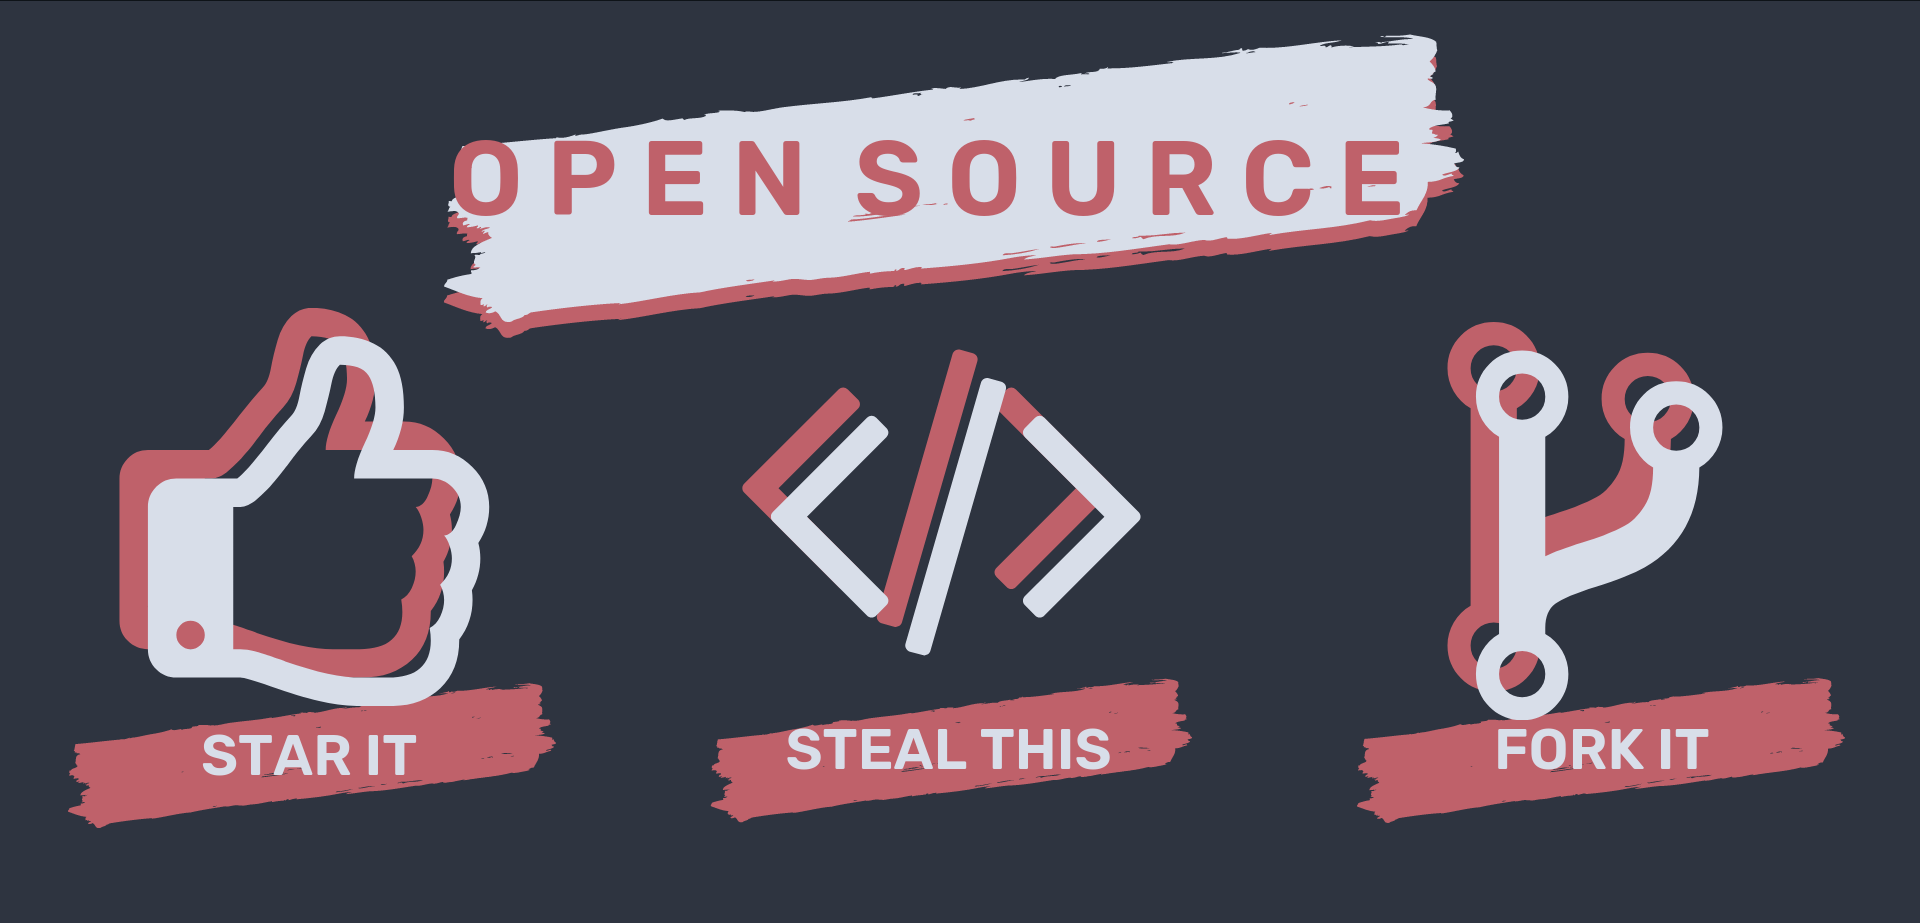
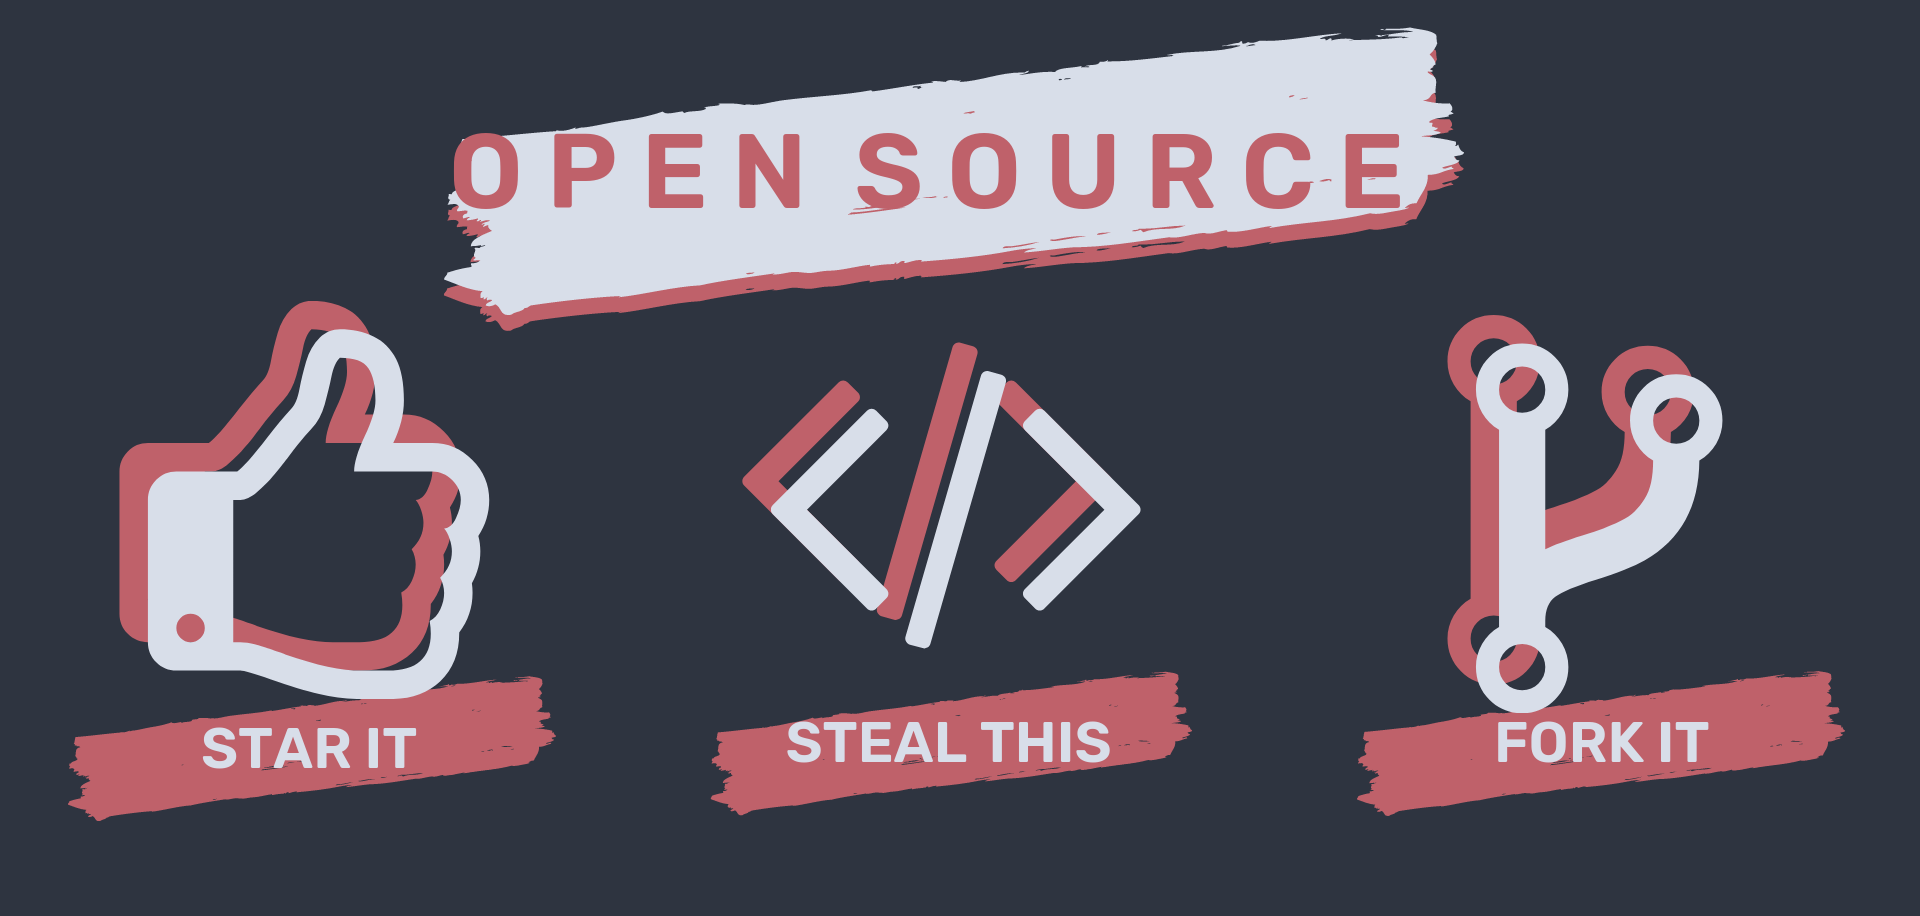
yeah I had to fix this

diff --git a/README.md b/README.md
@@ -129,13 +129,9 @@ Creddit for configuration goes for Cody Craven :)2
 
 Also yeah, I use spotify, shut up
 
-## 🔌 Shameless Plug 🔌
----
-### :computer: Visit my Website :D
-
-### :star: Smash the Star Button
-
-### :rice: Steal my dots!!!!
+<p align="center">
+  <img src="Screenshot/presentation-6.png">
+</p>
 
 
 ## TODO 🗒
@@ -148,55 +144,3 @@ Also yeah, I use spotify, shut up
 
 <p align="center"><a href="https://github.com/Axarva/dotfiles-2.0/blob/main/LICENSE"><img src="https://img.shields.io/badge/license-MIT-orange.svg?colorA=4c566a&colorB=88c0d0&style=for-the-badge&logo=mitsubishi"></a></p>
 
-
-
-
-
-AND DON'T FORGET TO READ WHAT'S WRITTEN AT THE END OF THE MAIN INSTALLATION SECTION [UP THERE](#inst). Further steps are specified there. (Yes. Absolutely needs to be shouty capitals.)
-<a id="deps"></a>
-## Dependencies 📊
-Ahhhhh the other main stuff. Here you go, peeps. Make sure you have em all.
-
--    xmonad (OF COURSE, DUH)
--    eww (ElKowar's Wacky Widgets, binary included, but I encourage you to build it yourself and put the binary in your ~/bin). [Link](https://github.com/elkowar/eww)
--    firefox (Yup)
--    rofi version 1.6.0 (Configs originally come from @adi1090x, been edited by me).
--    tint2 (Install using package manager, other binary from my fork is provided)
--    acpi
--    Museo Sans Font by Adobe (I think it needs some sort of acount, but get it) Or just search for it on the web and get it somewhere
--    ~~Any Nerd Font, Iosevka recommended along with Hurmit.~~ Nerd Fonts now included in folder. [Link](https://github.com/ryanoasis/nerd-fonts/tree/master/patched-fonts/Iosevka) 
--    playerctl
--    brightnessctl. [Link](https://github.com/Hummer12007/brightnessctl)
--    OpenRC (Wait a sec, yep, remember to edit the powermenu files if you use systemd)
--    candy-icons. [Link](https://github.com/EliverLara/candy-icons)
--    dunst
--    Spotify (for cover art, else edit the eww/scripts/getart script accordingly)
--    An OpenWeatherMap Account, (view eww/scripts/getweather script for more info)
--    feh
--    NetworkManager
--    zsh (THIS IS IMPORTANT)
--    alacritty
--    picom (fork of ibhagwan or jonaburg)
--    doas- wait, just replace doas occurences with sudo, or go macho and install doas
--    jq: Command line json parser (Needed for widgets)
--    maim and xclip for screenshots
--    mpv for low-battery sound playing (Not exactly necessary, you'll get the notification, but the sound depends on it.)
--    *Might need to be updated, so please tell me*
-
-<a id="trouble"></a>
-## Troubleshooting 🔫
-And here we are:
-
-
-1. If xmonad doesn't build make sure you have `xmonad-contrib`
-2. Bar looks weird: Try editing it a bit using `tint2conf`. 
-3. Alacritty configs are faulty: I'm not sure about this one, works perfectly fine for me. 
-4. Widgets positioning weird: I hardcoded them for a 1366x768 screen, will create others if I can
-5. Fonts: GET THOSE FONTS!
-6. **MAKE SURE YOUR `~/bin` DIRECTORY IS IN YOUR PATH, OR NOTHING WILL WORK!** (Yes. Absolutely needs to be shouty capitals.)
-7. Anything else? Open up an issue.
-8. Workspace indicator bar lost colors: This has a very long explanation, but the fix is as follows:
-   - Open up the `~/.config/tint2/workspaces.tint2rc` file, and scroll down to the taskbar module at around line 120
-   - Add this line in that block: `taskbar_name_unoccupied_font_color = #ffd5cd 100`
-   - Save the file, and refresh the bar with hitting the keybind `Win + B` twice.
-   - Remember not to edit that particular file with `tint2conf`, or you'll have to do this again!
